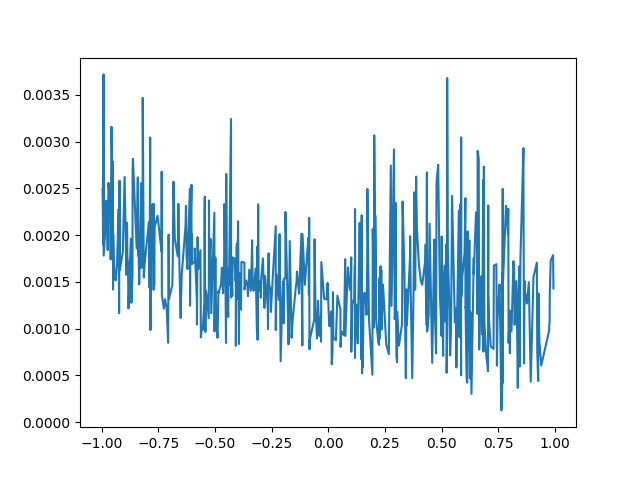
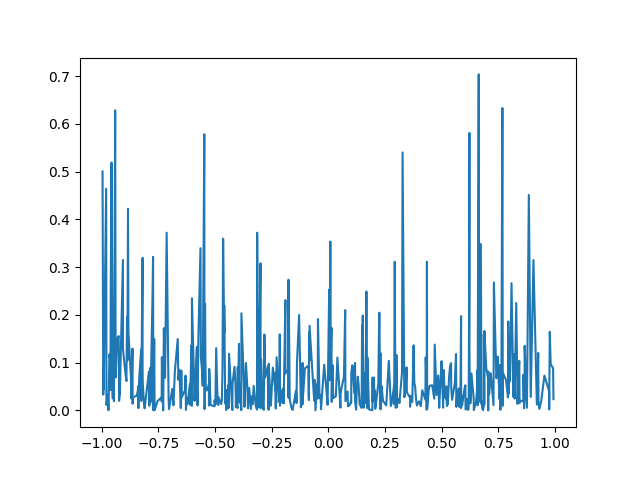
Add intrinsic ppo agent

diff --git a/stable_baselines_intrinsic/intrinsic_ppo_doom.py b/stable_baselines_intrinsic/intrinsic_ppo_doom.py
@@ -1,59 +1,50 @@
-import warnings
-from typing import Any, Dict, Optional, Type, TypeVar, Union
-
-import numpy as np
 import torch as th
 from gym import spaces
 from torch.nn import functional as F
+from stable_baselines3.ppo.ppo import PPO
+import numpy as np
 
 from stable_baselines3.common.on_policy_algorithm import OnPolicyAlgorithm
 from stable_baselines3.common.policies import ActorCriticCnnPolicy, ActorCriticPolicy, BasePolicy, MultiInputActorCriticPolicy
 from stable_baselines3.common.type_aliases import GymEnv, MaybeCallback, Schedule
-from stable_baselines3.common.utils import explained_variance, get_schedule_fn
-from stable_baselines3.ppo.ppo import PPO
+from stable_baselines3.common.utils import explained_variance
 from stable_baselines3.common.utils import obs_as_tensor
-from torch.nn.utils import clip_grad_norm_
 
-class Intrinsic_PPO(PPO):
-    def __init__(
-        self,
-        policy: Union[str, Type[ActorCriticPolicy]],
-        env: Union[GymEnv, str],
-        motivation_model,
-        motivation_lr,
-        motivation_grad_norm,
-        intrinsic_reward_coef,
-        warmup_steps,
-        global_counter,
-        learning_rate: Union[float, Schedule] = 3e-4,
-        n_steps: int = 2048,
-        batch_size: int = 64,
-        n_epochs: int = 10,
-        gamma: float = 0.99,
-        gae_lambda: float = 0.95,
-        clip_range: Union[float, Schedule] = 0.2,
-        clip_range_vf: Union[None, float, Schedule] = None,
-        normalize_advantage: bool = True,
-        ent_coef: float = 0.0,
-        vf_coef: float = 0.5,
-        max_grad_norm: float = 0.5,
-        use_sde: bool = False,
-        sde_sample_freq: int = -1,
-        target_kl: Optional[float] = None,
-        tensorboard_log: Optional[str] = None,
-        policy_kwargs: Optional[Dict[str, Any]] = None,
-        verbose: int = 0,
-        seed: Optional[int] = None,
-        device: Union[th.device, str] = "auto",
-        motivation_device="cuda:0",
-        _init_setup_model: bool = True,
-    ):
-        super().__init__(
-            policy, env, learning_rate, n_steps, batch_size, n_epochs, gamma, gae_lambda, clip_range,
-            clip_range_vf, normalize_advantage, ent_coef, vf_coef, max_grad_norm, use_sde,
-            sde_sample_freq, target_kl, tensorboard_log, policy_kwargs, verbose,
-            seed, device, _init_setup_model
-        )
+from torch.nn.utils import clip_grad_norm_
+class intrinsic_PPO(PPO):
+    def __init__(self, policy, env, motivation_model, motivation_lr, motivation_grad_norm,
+                 intrinsic_reward_coef, warmup_steps, global_counter, learning_rate = 3e-4,
+                 n_steps = 2048, batch_size = 64, n_epochs = 10, gamma = 0.99, gae_lambda = 0.95,
+                 clip_range = 0.2, clip_range_vf = None, normalize_advantage = True, ent_coef = 0.0,
+                 vf_coef = 0.5, max_grad_norm = 0.5, use_sde = False, sde_sample_freq = -1,
+                 target_kl = None, stats_window_size = 100, tensorboard_log = None,
+                 policy_kwargs = None, verbose = 0, seed = None, device = "auto",
+                 motivation_device="cuda:0", _init_setup_model = True,):
+        super().__init__(policy=policy,
+                     env=env,
+                     learning_rate=learning_rate,
+                     n_steps=n_steps,
+                     batch_size=batch_size,
+                     n_epochs=n_epochs,
+                     gamma=gamma,
+                     gae_lambda=gae_lambda,
+                     clip_range=clip_range,
+                     clip_range_vf=clip_range_vf,
+                     normalize_advantage = normalize_advantage,
+                     ent_coef=ent_coef,
+                     vf_coef=vf_coef,
+                     max_grad_norm=max_grad_norm,
+                     use_sde=use_sde,
+                     sde_sample_freq=sde_sample_freq,
+                     target_kl=target_kl,
+                     stats_window_size=stats_window_size,
+                     tensorboard_log=tensorboard_log,
+                     policy_kwargs=policy_kwargs,
+                     verbose=verbose,
+                     seed=seed,
+                     device=device,
+                     _init_setup_model=_init_setup_model,)
+
         self.motivation_model = motivation_model
         self.motivation_device = motivation_device
         self.batch_for_icm = {"old obs": [], "action": [], "new obs": []}
@@ -75,7 +66,6 @@ class Intrinsic_PPO(PPO):
         Collect experiences using the current policy and fill a ``RolloutBuffer``.
         The term rollout here refers to the model-free notion and should not
         be used with the concept of rollout used in model-based RL or planning.
-
         :param env: The training environment
         :param callback: Callback that will be called at each step
             (and at the beginning and end of the rollout)
@@ -114,10 +104,11 @@ class Intrinsic_PPO(PPO):
                 clipped_actions = np.clip(actions, self.action_space.low, self.action_space.high)
 
             new_obs, rewards, dones, infos = env.step(clipped_actions)
+            self.debug(dones, rewards)
+            # Reset doom reward
 
-            rewards, int_reward, ext_reward, raw_int_reward, raw_ext_reward = \
+            rewards, int_reward, ext_reward, raw_int_reward, raw_ext_reward =\
                 self.calculate_new_reward(obs_tensor, clipped_actions, new_obs, rewards, dones)
-
 
             self.num_timesteps += env.num_envs
 
@@ -137,9 +128,9 @@ class Intrinsic_PPO(PPO):
             # see GitHub issue #633
             for idx, done in enumerate(dones):
                 if (
-                    done
-                    and infos[idx].get("terminal_observation") is not None
-                    and infos[idx].get("TimeLimit.truncated", False)
+                        done
+                        and infos[idx].get("terminal_observation") is not None
+                        and infos[idx].get("TimeLimit.truncated", False)
                 ):
                     terminal_obs = self.policy.obs_to_tensor(infos[idx]["terminal_observation"])[0]
                     with th.no_grad():
@@ -160,6 +151,24 @@ class Intrinsic_PPO(PPO):
 
         return True
 
+    def train(self):
+        super().train()
+        old_obs, action_batch, new_obs = self.get_batch_for_icm()
+        icm_loss = self.motivation_model.get_icm_loss(old_obs, action_batch, new_obs)
+        icm_loss_value = icm_loss.detach().item()
+        self.model_optimizer.zero_grad()
+        icm_loss.backward()
+        self.logger.record("train/final/icm_loss", icm_loss_value)
+        self.logger.record("train/final/forward_loss", self.motivation_model.forward_loss.item())
+        self.logger.record("train/final/inverse_loss", self.motivation_model.inverse_loss.item())
+        self.logger.record("train/raw/forward_loss", self.motivation_model.raw_forward_loss.item())
+        self.logger.record("train/raw/inverse_loss", self.motivation_model.raw_inverse_loss.item())
+        self.logger.record("train/grads/ICM grad norm (Before clipping)",
+                           self.calculate_grad_norm(self.motivation_model))
+        self.logger.record("train/grads/A2C grad norm (After clipping)", self.calculate_grad_norm(self.policy))
+        clip_grad_norm_(self.motivation_model.parameters(), self.motivation_grad_norm)
+        self.model_optimizer.step()
+
     def calculate_new_reward(self, obs, action, new_obs, rewards, dones):
         new_obs = obs_as_tensor(new_obs, self.motivation_device)
         obs, action, new_obs = (obs.to(th.float).to(self.motivation_device),
@@ -173,10 +182,9 @@ class Intrinsic_PPO(PPO):
         else:
             int_reward = self.motivation_model.intrinsic_reward(obs, action, new_obs)
             int_reward = np.clip(int_reward, 0, 1)
-            int_reward[dones == True] = 0
-            rewards = int_reward * self.intrinsic_reward_coef + ext_reward * (1 - self.intrinsic_reward_coef)
-        return rewards, int_reward * self.intrinsic_reward_coef, ext_reward * (
-                    1 - self.intrinsic_reward_coef), int_reward, ext_reward
+            int_reward[dones==True] = 0
+            rewards = int_reward * self.intrinsic_reward_coef + ext_reward
+        return rewards, int_reward * self.intrinsic_reward_coef, ext_reward, int_reward, ext_reward
 
     def save_batch_for_icm(self, obs, action, new_obs, dones):
         relevant_obs = obs[dones == False]
@@ -203,20 +211,8 @@ class Intrinsic_PPO(PPO):
         total_norm = total_norm ** 0.5
         return total_norm
 
-    def train(self):
-        super().train()
-        old_obs, action_batch, new_obs = self.get_batch_for_icm()
-        icm_loss = self.motivation_model.get_icm_loss(old_obs, action_batch, new_obs)
-        icm_loss_value = icm_loss.detach().item()
-        self.model_optimizer.zero_grad()
-        icm_loss.backward()
-        self.logger.record("train/final/icm_loss", icm_loss_value)
-        self.logger.record("train/final/forward_loss", self.motivation_model.forward_loss.item())
-        self.logger.record("train/final/inverse_loss", self.motivation_model.inverse_loss.item())
-        self.logger.record("train/raw/forward_loss", self.motivation_model.raw_forward_loss.item())
-        self.logger.record("train/raw/inverse_loss", self.motivation_model.raw_inverse_loss.item())
-        self.logger.record("train/grads/ICM grad norm (Before clipping)",
-                           self.calculate_grad_norm(self.motivation_model))
-        self.logger.record("train/grads/A2C grad norm (After clipping)", self.calculate_grad_norm(self.policy))
-        clip_grad_norm_(self.motivation_model.parameters(), self.motivation_grad_norm)
-        self.model_optimizer.step()
+    def debug(self, dones, rewards):
+        self.step_counter += 1
+        if (rewards > 1).any():
+            print("Step number: {}, global steps: {}".format(self.step_counter, self.global_counter.get_count()))
+            print("Dones: {}, Rewards: {}".format(dones, rewards))

diff --git a/ViZDoom/Fixated_buffer_experiment/icm_test.py b/ViZDoom/Fixated_buffer_experiment/icm_test.py
@@ -3,7 +3,6 @@ import torch.optim
 from mario_icm.ViZDoom.Fixated_buffer_experiment.custom_dataset.stable_buffer import PairedImageDataset, MultiAgentDataset
 from torch.utils.data import DataLoader
 from mario_icm.icm_mine.icm import ICM
-from mario_icm.icm_old.icm import ICM_Old
 from mario_icm.ViZDoom.ViZDoom_continuous_support.ViZDoomEnv import VizdoomEnv
 from sklearn.neighbors import KernelDensity
 import numpy as np
@@ -11,6 +10,23 @@ import wandb
 import matplotlib.pyplot as plt
 import os
 
+def visualise_ten_pictures(prev_obs, actions, next_obs):
+    previous_frame = prev_obs[:10, 3:, :, :]
+    next_frame = next_obs[:10, 3:, :, :]
+    actions = actions[:10]
+    titles = ["act1: {:.5f}".format(actions[i, 0]) + "; act2: {:.5f}".format(actions[i, 1]) for i in range(10)]
+    fig = plt.figure(figsize=(50, 50))
+
+    for i in range(10):
+        sub = fig.add_subplot(5, 2, i + 1)
+        divider = torch.zeros((1, 42, 1)).cuda()+255.
+        image = torch.cat((previous_frame[i], divider, next_frame[i]), dim=2).squeeze()
+        image = image.detach().cpu().numpy()
+        sub.imshow(image, cmap="gray")
+        sub.set_title(titles[i])
+    fig.savefig("/home/dvasilev/doom_icm/mario_icm/fixated_buffer_image_logs/examples")
+    plt.close(fig)
+    plt.cla()
 
 def one_batch_train(train_dataloader, ICM, optim):
     start_frames, end_frames, actions = next(iter(train_dataloader))
@@ -44,6 +60,7 @@ def slice_train(train_dataloader, ICM, optim, test_dataloader, config):
                "ICM loss": icm_loss.cpu().detach(),
                "Gradient norm": grad_norm}
             if counter%1000 == 0:
+                visualise_ten_pictures(start_frames, actions, end_frames)
                 predicted_actions, _, _ = ICM.forward(start_frames, actions, end_frames)
                 if config.discrete == False:
                     plot_hist(actions, predicted_actions, np.array([[-1, 1], [-1, 1]]))
@@ -149,7 +166,7 @@ def main(config=None):
     """
     icm = ICM(action_space, obs_shape, inv_scale=0.8, forward_scale=0.2, hidden_layer_neurons=config.output_neurons,
               discrete=config.discrete, pde=config.pde, freeze_grad=config.freeze_grad,
-              eta=0.2, apply_bounder=False, pde_regulizer=config.pde_regulizer,
+              eta=0.02, apply_bounder=False, pde_regulizer=config.pde_regulizer,
               inverse_bottleneck=False, inverse_group=False, inverse_fc_qty=2,
               feature_skip_conn=False, feature_consecutive_convs=1, feature_batch_norm=False, feature_total_blocks=4)
     icm = icm.to("cuda:0")
@@ -172,7 +189,7 @@ if __name__ == "__main__":
             self.freeze_grad = False
             self.pde_regulizer = 0.
             self.apply_bounder = True
-            self.discrete = True
+            self.discrete = False
             self.learning_steps=10_000
             
     config = Mock()

diff --git a/stable_baselines_intrinsic/intrinsic_a2c_doom.py b/stable_baselines_intrinsic/intrinsic_a2c_doom.py
@@ -16,8 +16,7 @@ class intrinsic_A2C(A2C):
     def __init__(self, policy, env, motivation_model, motivation_lr, motivation_grad_norm, intrinsic_reward_coef, warmup_steps, 
                  global_counter, learning_rate = 7e-4, n_steps = 5, gamma = 0.99, gae_lambda = 1.0, ent_coef = 0.0, vf_coef = 0.5,
                  max_grad_norm = 0.5, rms_prop_eps = 1e-5, use_rms_prop = True, use_sde = False, sde_sample_freq = -1, 
-                 normalize_advantage = False,
-                 stats_window_size=100,
+                 normalize_advantage = False, stats_window_size=100,
                  tensorboard_log = None, policy_kwargs = None, verbose = 0,
                  seed = None, device = "auto", motivation_device="cuda:0", _init_setup_model = True):
         super().__init__(policy, env, learning_rate, n_steps, gamma, gae_lambda, 

diff --git a/ViZDoom/Fixated_buffer_experiment/samplers/random_sb3_sampler.py b/ViZDoom/Fixated_buffer_experiment/samplers/random_sb3_sampler.py
@@ -65,8 +65,8 @@ def prepare_sampler(env, parallel_envs):
     return sampler
 
 if __name__ == "__main__":
-    parallel_envs = 1
-    is_test = True
+    parallel_envs = 20
+    is_test = False
     env = SubprocVecEnv([prepare_env(10, i) for i in range(parallel_envs)])
     env = VecFrameStack(env, n_stack=4)
     wandb.init("EnvPool test")
@@ -80,7 +80,7 @@ if __name__ == "__main__":
     action_sampler = prepare_sampler(env, parallel_envs)
 
     while i < 50_000:
-        video.append(obs[0])
+        video.append(obs[0, 0:1, :, :])
         actions = action_sampler()
 
         new_obs, rewards, dones, info = env.step(actions)

diff --git a/ViZDoom/ViZDoom_continuous_support/ViZDoomEnv.py b/ViZDoom/ViZDoom_continuous_support/ViZDoomEnv.py
@@ -44,8 +44,8 @@ class VizdoomEnv(gym.Env):
         """
         self.frame_skip = frame_skip
         self.render_mode = render_mode
-        self.BOUNDS = {vzd.Button.MOVE_FORWARD_BACKWARD_DELTA: [-40., 40.],
-                       vzd.Button.TURN_LEFT_RIGHT_DELTA: [-9, 9]}
+        self.BOUNDS = {vzd.Button.MOVE_FORWARD_BACKWARD_DELTA: [-15., 15.],
+                       vzd.Button.TURN_LEFT_RIGHT_DELTA: [-3, 3]}
 
         # init game
         self.game = vzd.DoomGame()

diff --git a/ViZDoom/Fixated_buffer_experiment/custom_dataset/stable_buffer.py b/ViZDoom/Fixated_buffer_experiment/custom_dataset/stable_buffer.py
@@ -1,8 +1,5 @@
-import os
-from torchvision.io import read_image
 from torch.utils.data import Dataset
 import numpy as np
-import cv2
 
 class PairedImageDataset(Dataset):
     def __init__(self, is_test=False, length = None):
